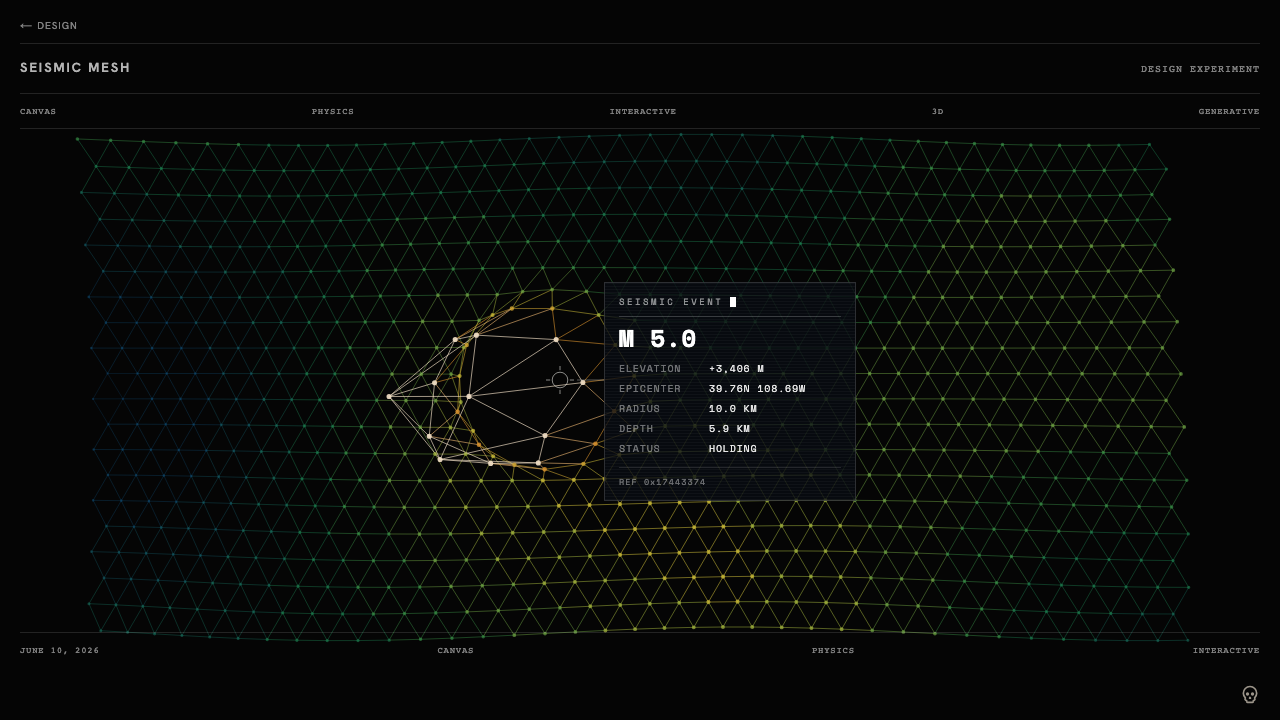
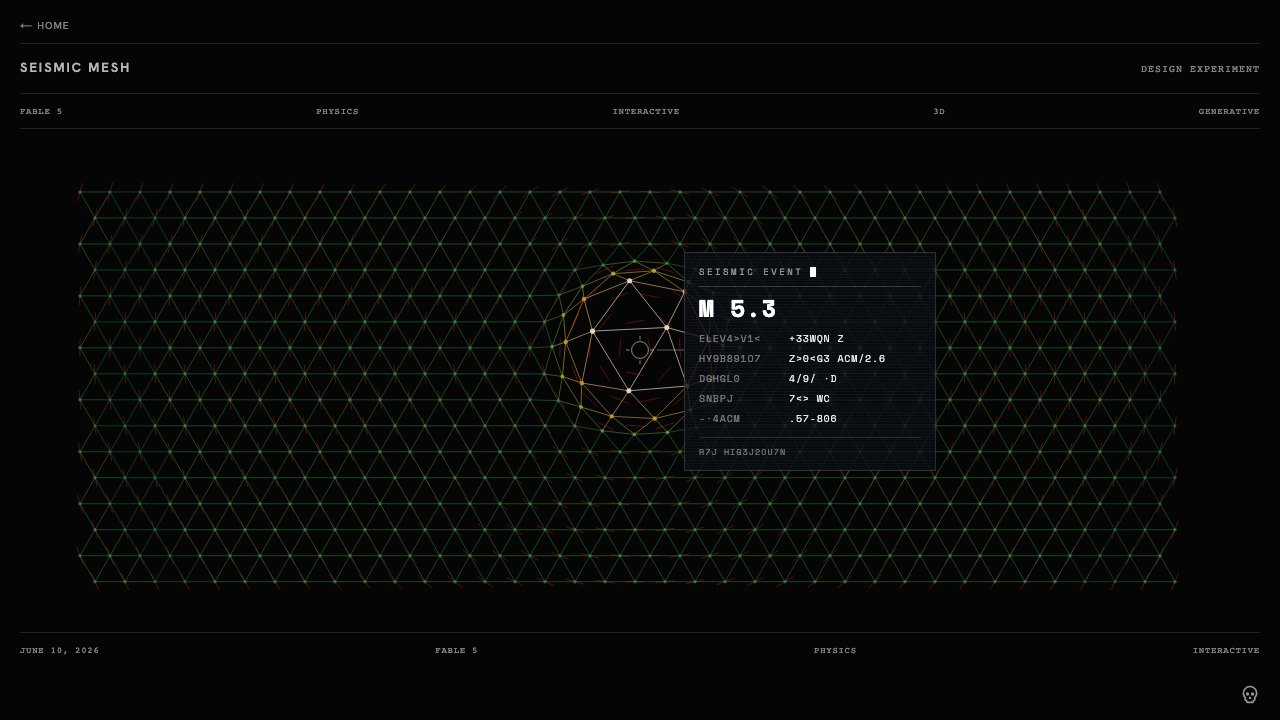
Add magnetic grid backdrop to Seismic Mesh; flatten resting mesh
New SeismicGrid layer rendered behind the mesh on its own canvas:
- A field of short line segments that rotate to swirl tangentially around
  the cursor (magnetic / iron-filings effect), faithful to the codepen
  MWMRjQJ math but rendered in a muted red at 35% opacity.
- Fully decoupled from the mesh's click-deformation physics — it only reads
  pointer position, so clicks warp the mesh but never touch this layer.
- Angles ease per frame for a soft, hovering settle.

Shared layout module (meshLayout.ts) is now the single source of truth for
the hex node lattice. Both buildMesh (page.tsx) and SeismicGrid build off it,
so every backdrop line's rotation point lands exactly on a mesh node and the
two layers register perfectly at rest.

Mesh resting state is now flat and a single solid color:
- RIPPLE_AMP set to 0 so the surface no longer breathes at rest; the
  magnetic backdrop now carries the ambient motion that invites interaction.
- Elevation derives only from deformation (BASE_ELEV constant), so the
  topographic color spectrum appears only where you extrude/depress —
  removed the static terrain heightmap (terrain(), TERRAIN_T, heights) and
  the dead nx/ny node fields.
- Dropped two hex rows off the top and bottom (separate MESH_PADDING_BOTTOM)
  so the mesh sits with more breathing room in the content area.

Mesh canvas is now transparent (no opaque fill) so the grid shows through;
container background and z-index stacking handle the layering.
[…]

diff --git a/app/design-experiments/(experiments)/seismic-mesh/components/SeismicGrid.tsx b/app/design-experiments/(experiments)/seismic-mesh/components/SeismicGrid.tsx
@@ -1,0 +1,102 @@
+// A static "magnetic" backdrop layered beneath the seismic mesh. A full-bleed
+// square lattice of short segments that rotate to wrap tangentially around the
+// pointer (iron-filings / field-line look). It is fully decoupled from the
+// mesh's click-deformation physics — it only reads pointer position, never the
+// mesh state, so clicks warp the mesh but leave this layer untouched.
+'use client';
+
+import { useEffect, useRef } from 'react';
+import { CELL_SIZE, meshGrid } from '../meshLayout';
+
+// --- Tunables (adjust these live against the reference) ---------------------
+// Segments sit on the shared mesh lattice (meshLayout) so each rotation point
+// lands exactly on a mesh node — the two layers line up at rest.
+const SEG_LEN = CELL_SIZE * 0.6; // segment length (codepen bars are ~1:6)
+const EASE = 0.12; // angle settle per frame: 1 = instant snap, lower = gentler
+const ORIENT: 'tangent' | 'radial' = 'tangent'; // wrap-around vs point-at
+const TONE = 'rgba(255,30,30,0.35)'; // bright red at 35% opacity
+const LINE_WIDTH = 1;
+
+type Seg = { x: number; y: number; angle: number };
+
+// Rotate `from` toward `to` by `t`, taking the shortest path around the circle.
+function easeAngle(from: number, to: number, t: number): number {
+  let delta = (to - from) % (Math.PI * 2);
+  if (delta > Math.PI) delta -= Math.PI * 2;
+  else if (delta < -Math.PI) delta += Math.PI * 2;
+  return from + delta * t;
+}
+
+export function SeismicGrid() {
+  const canvasRef = useRef<HTMLCanvasElement>(null);
+
+  useEffect(() => {
+    const canvas = canvasRef.current;
+    if (!canvas) return;
+    const ctx = canvas.getContext('2d');
+    if (!ctx) return;
+
+    let segs: Seg[] = [];
+    // Default the pointer to viewport center so the resting field is coherent
+    // before the first pointermove.
+    const pointer = { x: window.innerWidth / 2, y: window.innerHeight / 2 };
+    let raf = 0;
+
+    function build() {
+      if (!canvas || !ctx) return;
+      const W = window.innerWidth;
+      const H = window.innerHeight;
+      canvas.width = W * devicePixelRatio;
+      canvas.height = H * devicePixelRatio;
+      canvas.style.width = W + 'px';
+      canvas.style.height = H + 'px';
+      ctx.setTransform(1, 0, 0, 1, 0, 0);
+      ctx.scale(devicePixelRatio, devicePixelRatio);
+
+      // Same hex node positions the mesh uses — rotation points coincide.
+      segs = meshGrid(W, H).points.map(p => ({ x: p.x, y: p.y, angle: 0 }));
+    }
+    build();
+    window.addEventListener('resize', build);
+
+    function onPointerMove(e: PointerEvent) {
+      pointer.x = e.clientX;
+      pointer.y = e.clientY;
+    }
+    window.addEventListener('pointermove', onPointerMove);
+
+    function draw() {
+      if (!canvas || !ctx) return;
+      const W = window.innerWidth;
+      const H = window.innerHeight;
+      ctx.clearRect(0, 0, W, H);
+
+      const tangent = ORIENT === 'tangent' ? Math.PI / 2 : 0;
+      ctx.strokeStyle = TONE;
+      ctx.lineWidth = LINE_WIDTH;
+      ctx.lineCap = 'round';
+      ctx.beginPath();
+      const h = SEG_LEN / 2;
+      for (const seg of segs) {
+        const target = Math.atan2(seg.y - pointer.y, seg.x - pointer.x) + tangent;
+        seg.angle = easeAngle(seg.angle, target, EASE);
+        const c = Math.cos(seg.angle);
+        const s = Math.sin(seg.angle);
+        ctx.moveTo(seg.x - c * h, seg.y - s * h);
+        ctx.lineTo(seg.x + c * h, seg.y + s * h);
+      }
+      ctx.stroke();
+
+      raf = requestAnimationFrame(draw);
+    }
+    raf = requestAnimationFrame(draw);
+
+    return () => {
+      cancelAnimationFrame(raf);
+      window.removeEventListener('resize', build);
+      window.removeEventListener('pointermove', onPointerMove);
+    };
+  }, []);
+
+  return <canvas ref={canvasRef} className="seismic-grid-canvas" />;
+}

diff --git a/app/design-experiments/(experiments)/seismic-mesh/page.tsx b/app/design-experiments/(experiments)/seismic-mesh/page.tsx
@@ -7,13 +7,14 @@
 import { useEffect, useRef, useState } from 'react';
 import { DecodeText } from '@/app/components/DecodeText';
 import { makeReadout, type Readout } from './data/readout';
+import { SeismicGrid } from './components/SeismicGrid';
+import { CELL_SIZE, meshGrid } from './meshLayout';
 import './styles.css';
 
-const CELL_SIZE = 30;
-const MESH_PADDING = 80;
-const MESH_PADDING_TOP = 140; // header is ~130px tall; extra clearance to match bottom gap
-const ROW_SPACING = CELL_SIZE * (Math.sqrt(3) / 2);
-const TERRAIN_T = 1.4;
+// Resting elevation — uniform across the flat mesh, so the surface is one solid
+// color at rest. Deformation shifts it up (extrude → warm) or down (depress →
+// cool), so the topographic spectrum only appears where the mesh is warped.
+const BASE_ELEV = 0.5;
 
 // Camera directly above
 const CAM_Z = 2200;
@@ -26,8 +27,10 @@ const BLAST_FORCE = CAM_Z * (1 - Z_DAMPING);
 const BLAST_SIGMA = CELL_SIZE * 1.5;
 const Z_NEIGHBOR_K = 0.004;
 
-// Ambient ripple — purely visual, doesn't touch node.z
-const RIPPLE_AMP = 55;    // depth units (~2.5% of CAM_Z)
+// Ambient ripple — purely visual, doesn't touch node.z.
+// Set to 0: the resting mesh stays flat/static so it doesn't compete with the
+// SeismicGrid backdrop's motion. Restore (~55) to bring the breathing back.
+const RIPPLE_AMP = 0;     // depth units (~2.5% of CAM_Z at 55)
 const RIPPLE_K = 0.008;   // spatial frequency
 const RIPPLE_SPEED = 0.0004; // radians per ms
 
@@ -101,34 +104,17 @@ function panelPos(x: number, y: number, W: number, H: number) {
   return { left, top, flipped };
 }
 
-function terrain(nx: number, ny: number, t: number): number {
-  const x = nx * 7;
-  const y = ny * 5;
-  const h1 = Math.sin(x * 0.8 + t * 0.9) * Math.cos(y * 0.6 + t * 0.7);
-  const h2 = Math.sin(x * 1.5 - y * 1.1 + t * 0.5) * 0.5;
-  const h3 = Math.cos(x * 0.4 + y * 1.3 + t * 0.3) * 0.35;
-  const h4 = Math.sin(x * 2.2 + y * 0.7 + t * 0.8) * 0.15;
-  return (h1 + h2 + h3 + h4) / 2.0;
-}
-
 function buildMesh(W: number, H: number) {
-  // Mesh fits within viewport minus padding; subtract half-cell for odd-row hex offset
-  const cols = Math.floor((W - MESH_PADDING * 2 - CELL_SIZE / 2) / CELL_SIZE) + 1;
-  const rows = Math.floor((H - MESH_PADDING_TOP - MESH_PADDING) / ROW_SPACING) + 1;
-  const startX = MESH_PADDING;
-  const startY = MESH_PADDING_TOP;
+  // Node positions come from the shared lattice (meshLayout) so the SeismicGrid
+  // backdrop lines up exactly with these nodes.
+  const { cols, rows, points } = meshGrid(W, H);
 
   const nodes = [];
-  for (let row = 0; row < rows; row++) {
-    for (let col = 0; col < cols; col++) {
-      const rx = startX + col * CELL_SIZE + (row % 2) * (CELL_SIZE / 2);
-      const ry = startY + row * ROW_SPACING;
-      nodes.push({
-        x: rx, y: ry,       // fixed — never change
-        z: 0, vz: 0,        // depth and velocity
-        nx: rx / W, ny: ry / H,
-      });
-    }
+  for (const p of points) {
+    nodes.push({
+      x: p.x, y: p.y,     // fixed — never change
+      z: 0, vz: 0,        // depth and velocity
+    });
   }
 
   const edges: [number, number][] = [];
@@ -197,7 +183,6 @@ export default function SeismicMesh() {
     if (!ctx) return;
 
     let mesh = buildMesh(window.innerWidth, window.innerHeight);
-    let heights = mesh.nodes.map(n => terrain(n.nx, n.ny, TERRAIN_T));
     let fadeTimeout = 0;
 
     function resize() {
@@ -208,7 +193,6 @@ export default function SeismicMesh() {
       canvas.style.height = window.innerHeight + 'px';
       ctx.scale(devicePixelRatio, devicePixelRatio);
       mesh = buildMesh(window.innerWidth, window.innerHeight);
-      heights = mesh.nodes.map(n => terrain(n.nx, n.ny, TERRAIN_T));
     }
     resize();
     window.addEventListener('resize', resize);
@@ -292,9 +276,9 @@ export default function SeismicMesh() {
       const H = window.innerHeight;
       const { nodes, edges, adjacency } = mesh;
 
+      // Transparent — the container background (#050505) and the SeismicGrid
+      // layer beneath show through. Only clear; do not paint an opaque fill.
       ctx.clearRect(0, 0, W, H);
-      ctx.fillStyle = '#050505';
-      ctx.fillRect(0, 0, W, H);
 
       // Cinematic state machine — all phase timing lives here, no timers
       const cin = cinematicRef.current;
@@ -388,7 +372,9 @@ export default function SeismicMesh() {
         px[i] = W / 2 + (node.x - W / 2) * scale;
         py[i] = H / 2 + (node.y - H / 2) * scale;
         // renderZ negative = toward camera = high
-        const e = 0.5 + heights[i] * 0.28 + (-renderZ / CAM_Z) * 0.9;
+        // Elevation comes only from deformation, so the resting mesh is one
+        // solid color and the topo spectrum appears only where it's warped.
+        const e = BASE_ELEV + (-renderZ / CAM_Z) * 0.9;
         elev[i] = e < 0 ? 0 : e > 1 ? 1 : e;
       }
 
@@ -484,6 +470,7 @@ export default function SeismicMesh() {
 
   return (
     <div className="seismic-mesh-container">
+      <SeismicGrid />
       <canvas ref={canvasRef} className="seismic-mesh-canvas" />
       {overlay && pos && (
         <div

diff --git a/app/design-experiments/(experiments)/seismic-mesh/meshLayout.ts b/app/design-experiments/(experiments)/seismic-mesh/meshLayout.ts
@@ -1,0 +1,31 @@
+// Single source of truth for the hexagonal node lattice. Both the mesh
+// (page.tsx) and the magnetic backdrop (SeismicGrid) build off these positions,
+// so every backdrop line rotates around the exact point where a mesh node sits.
+
+export const CELL_SIZE = 30;
+export const MESH_PADDING = 80; // horizontal (left/right) margin
+export const ROW_SPACING = CELL_SIZE * (Math.sqrt(3) / 2);
+// Drop two hex rows off the top and bottom so the mesh sits with more breathing
+// room inside the content area. Top also clears the ~130px header.
+export const MESH_PADDING_TOP = 140 + ROW_SPACING * 2;
+export const MESH_PADDING_BOTTOM = MESH_PADDING + ROW_SPACING * 2;
+
+export type GridPoint = { x: number; y: number };
+
+// Fixed screen positions of every hex node for a given viewport. At rest the
+// mesh renders its nodes at exactly these coordinates (perspective scale = 1),
+// so the backdrop lattice lines up perfectly with the resting mesh.
+export function meshGrid(W: number, H: number) {
+  const cols = Math.floor((W - MESH_PADDING * 2 - CELL_SIZE / 2) / CELL_SIZE) + 1;
+  const rows = Math.floor((H - MESH_PADDING_TOP - MESH_PADDING_BOTTOM) / ROW_SPACING) + 1;
+  const points: GridPoint[] = [];
+  for (let row = 0; row < rows; row++) {
+    for (let col = 0; col < cols; col++) {
+      points.push({
+        x: MESH_PADDING + col * CELL_SIZE + (row % 2) * (CELL_SIZE / 2),
+        y: MESH_PADDING_TOP + row * ROW_SPACING,
+      });
+    }
+  }
+  return { cols, rows, points };
+}

diff --git a/app/design-experiments/(experiments)/seismic-mesh/styles.css b/app/design-experiments/(experiments)/seismic-mesh/styles.css
@@ -8,10 +8,22 @@
   justify-content: center;
 }
 
-.seismic-mesh-canvas {
-  display: block;
+/* Magnetic backdrop — sits beneath the mesh, untouched by click-warp. */
+.seismic-grid-canvas {
+  position: absolute;
+  inset: 0;
   width: 100vw;
   height: 100vh;
+  z-index: 0;
+}
+
+.seismic-mesh-canvas {
+  display: block;
+  position: absolute;
+  inset: 0;
+  width: 100vw;
+  height: 100vh;
+  z-index: 1;
 }
 
 /* Seismic telemetry readout — width/height must track PANEL_W/PANEL_H in

diff --git a/lib/experiments/data.ts b/lib/experiments/data.ts
@@ -6,7 +6,7 @@ export const experiments: Experiment[] = [
     date: 'June 10, 2026',
     title: 'Seismic Mesh',
     subtitle: 'A Fable 5 experiment — click to trigger a quake: the mountain rises, freezes at peak, and telemetry decodes in beside it.',
-    description: 'An experiment with the new Fable 5 model. A hexagonal mesh viewed from directly above, colored topographically by live elevation. Clicking triggers a seismic cinematic: a mountain rises at the click point, a ripple radiates outward through the mesh, and the surface freezes at peak while an ASCII telemetry readout decodes in beside the epicenter — magnitude, coordinates, depth — before everything releases and melts back to flat. Shift-click for a quick dent. Perspective projection turns Z displacement into foreshortening; the ambient ripple keeps the surface shimmering even while frozen.',
+    description: 'An experiment with the new Fable 5 model. A hexagonal mesh viewed from directly above. At rest it sits flat and a single solid color; clicking triggers a seismic cinematic where a mountain rises at the click point, a ripple radiates outward through the mesh, and the surface freezes at peak — topographic color blooms across the elevation while an ASCII telemetry readout decodes in beside the epicenter (magnitude, coordinates, depth) before everything releases and melts back to flat. Shift-click for a quick dent. Behind the mesh, a separate field of magnetic lines — pinned to the exact mesh node positions — rotates to swirl around the cursor, adding depth without ever being touched by the warp. Perspective projection turns Z displacement into foreshortening.',
     screenshot: '/screenshots/seismic-mesh.png',
     tags: ['Fable 5', 'Physics', 'Interactive', '3D', 'Generative'],
     theme: 'dark',

diff --git a/README.md b/README.md
@@ -40,7 +40,7 @@ Experiments degrade gracefully without their keys set — Monono, for example, s
 
 [![Seismic Mesh](./public/screenshots/seismic-mesh.png)](/design-experiments/seismic-mesh)
 
-An experiment with the new Fable 5 model. A hexagonal mesh viewed from directly above, colored topographically by live elevation (deep blue through green and amber to white-hot). Clicking triggers a seismic cinematic: a mountain rises at the click point, a ripple radiates outward through the mesh, and the surface freezes at peak while an ASCII telemetry readout decodes in beside the epicenter — magnitude, coordinates, depth — before everything releases and melts back to flat. Shift-click for a quick dent. The perspective camera turns Z displacement into foreshortening, and an ambient ripple keeps the surface shimmering even while frozen. Pure canvas 2D API, no libraries.
+An experiment with the new Fable 5 model. A hexagonal mesh viewed from directly above. At rest it sits flat and a single solid color; clicking triggers a seismic cinematic where a mountain rises at the click point, a ripple radiates outward, and the surface freezes at peak — topographic color (deep blue through green and amber to white-hot) blooms across the elevation while an ASCII telemetry readout decodes in beside the epicenter — magnitude, coordinates, depth — before everything releases and melts back to flat. Shift-click for a quick dent. Behind the mesh, a separate field of magnetic lines pinned to the exact mesh node positions rotates to swirl around the cursor, adding depth without ever being touched by the warp. Pure canvas 2D API, no libraries.
 
 `Fable 5` `Physics` `Interactive` `3D` `Generative`
 